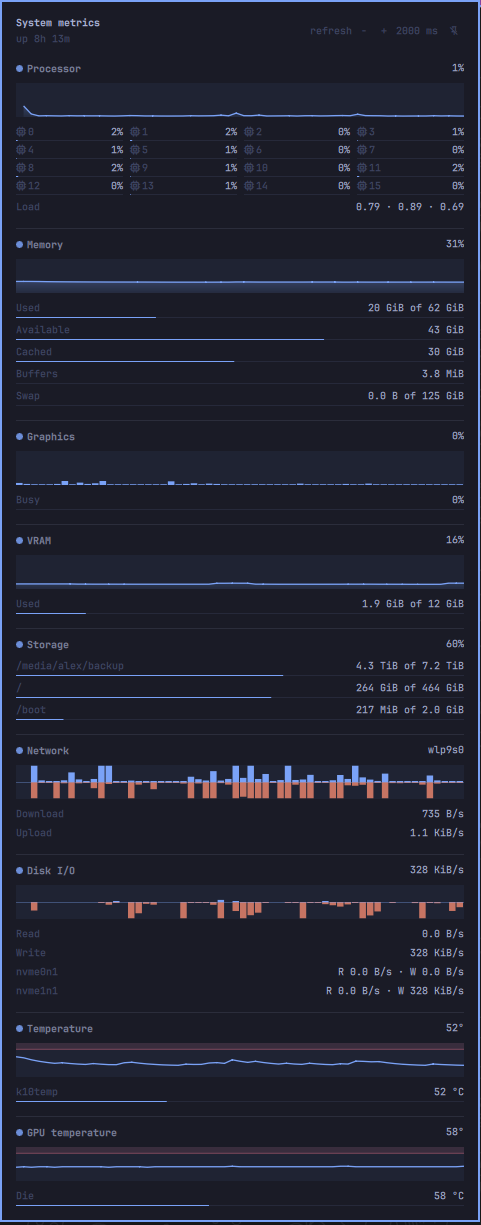
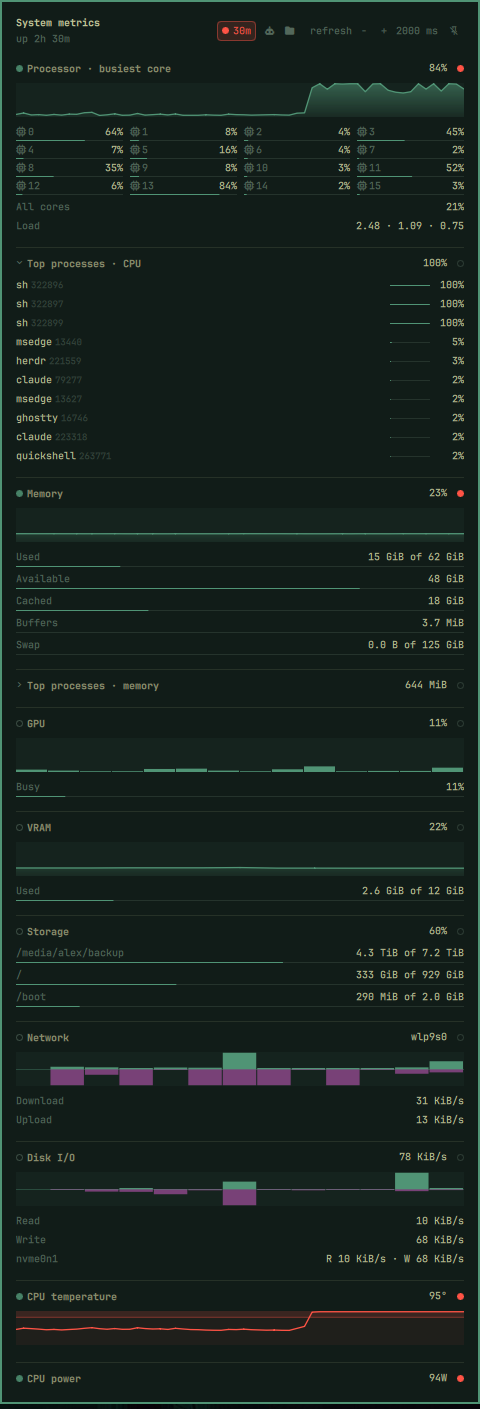
Release 1.4.0 with a marketplace card and a sharper description
The marketplace listing shows only the manifest description and one
preview image. The old preview was a raw, wide screenshot with no words
on it; the new one is a 16:9 card - headline, the six features that sell
the plugin, and the real bar and popup over a painted background. The
description follows the same line, and the README opens with the card.
The README screenshots are retaken, so they show recording and power.

Recording and CPU/GPU power are new since 1.3.0, so this is 1.4.0.

---

Lançar a 1.4.0 com um card pro marketplace e uma descrição mais forte

A página do marketplace mostra só a descrição do manifest e uma imagem de
preview. O preview antigo era um screenshot cru e largo, sem nenhum texto;
o novo é um card 16:9 - headline, as seis features que vendem o plugin, e a
barra e o popup reais sobre um fundo ilustrado. A descrição segue a mesma
linha, e o README abre com o card. Os screenshots do README foram refeitos,
então mostram a gravação e a energia.

Gravação e energia de CPU/GPU são novas desde a 1.3.0, então é a 1.4.0.

diff --git a/CHANGELOG.md b/CHANGELOG.md
@@ -6,8 +6,7 @@ Notable changes to System Metrics. Versions follow [semantic versioning](https:/
 the patch digit is a fix, the minor digit adds something a config can ask for, and
 nothing has needed a major bump yet.
 
-## Unreleased
-
+## 1.4.0 — 2026-09-24
 ### Added
 
 - **CPU power and GPU power**: package watts from RAPL and card watts from

diff --git a/README.pt-BR.md b/README.pt-BR.md
@@ -2,6 +2,8 @@
 
 [English](README.md) · **Português (Brasil)**
 
+![System Metrics — seu sistema inteiro, num relance](preview.png)
+
 Um widget de barra para o shell do [Omarchy](https://omarchy.org/): uma faixa
 de medidores do sistema ao vivo, e um popup com o detalhe por trás deles.
 

diff --git a/README.md b/README.md
@@ -2,6 +2,8 @@
 
 **English** · [Português (Brasil)](README.pt-BR.md)
 
+![System Metrics — your whole system, at a glance](preview.png)
+
 A bar widget for the [Omarchy](https://omarchy.org/) shell: a strip of live
 system gauges, and a popup with the detail behind them.
 
